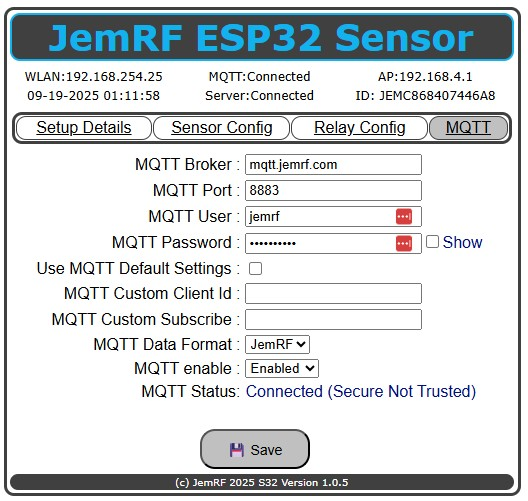
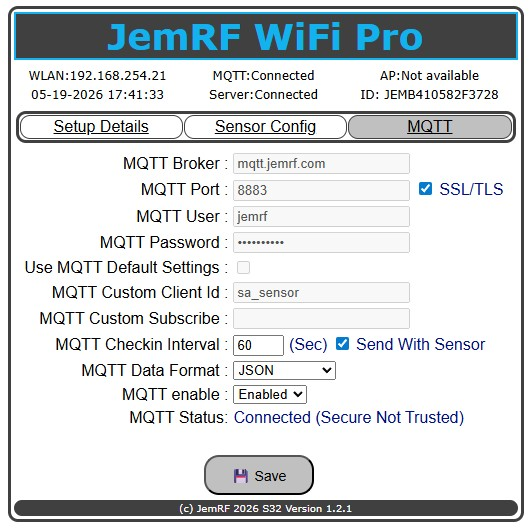
pro mqtt update3 new pics and corrections

diff --git a/pages/wifidocs/wifi32s-mqtt.md b/pages/wifidocs/wifi32s-mqtt.md
@@ -24,8 +24,8 @@ The settings for publishing sensor readings to an MQTT broker are configured on 
 ## Getting Started
 Click the MQTT tab and enter the MQTT Broker, in my case, my local server, and the MQTT port. For me, the standard MQTT port is used. Next is the optional Username and Password.
 
-Like the JemRF Pro series come preset to Port 1883 and is configured to use the JemRF Broker. But also supports secure connections on the standard port 8883 or other user defined ports. The secure connection will show Not Secure, Secure but not Trusted (if the digital certificates are self signed) and Secure Trusted if the certificates are valid. \
-The default username is jemrf, and the default password is mqtt4jemrf.  If you want a private account, contact sales @ jemrf.com.
+Like the JemRF Pro series come preset to Port 1883 and is configured to use the JemRF Broker. But also supports secure connections on the standard port 8883 or other user defined ports, just check the SSL/TSL checkbox. The controller will attempt the highest level connection first and work down until it establishes a connection or fails to make a connection to the broker. Once connected, the connection will show Not Secure, Secure but not Trusted (if the digital certificates are self signed) and Secure Trusted if the certificates are valid. \
+The default username is jemrf, and the default password is mqtt4Jemrf.  If you want a private account, contact sales @ jemrf.com.
 The JemRF WiFi Sensor can also make a Secure Connection. If the port numbers are 4000 or higher, the Sensor will attempt to make a Secure and Trusted Connection. If the Secure and Trusted fails, it will try a Secure and UnTrusted. Untrusted is caused when the site Certificate is not current or cannot be validated. A typical Example is using a self-signed certificate. A Secure, encrypted connection is made, but because the certificate cannot be validated, it is flagged as Untrusted. As shown in Figure 2.
 
 <img src="images/jemrf32smqttsecnt.jpg" width="425"/>
@@ -35,7 +35,7 @@ The JemRF WiFi Sensor can also make a Secure Connection. If the port numbers are
 ## Publishing Format
 Using the MQTT standard protocol, the Gateway will publish data to the broker using the subscription that is the combination of the Gateway Name and the sensor message.
 -Subscription
-Using the Gateway shown in Figure 1, the Gateway name is JRF03516124.
+Using the Gateway shown in Figure 1, the Gateway name is JEMB410582F3728.
 Using the sensor shown in Figure 2
 
 
